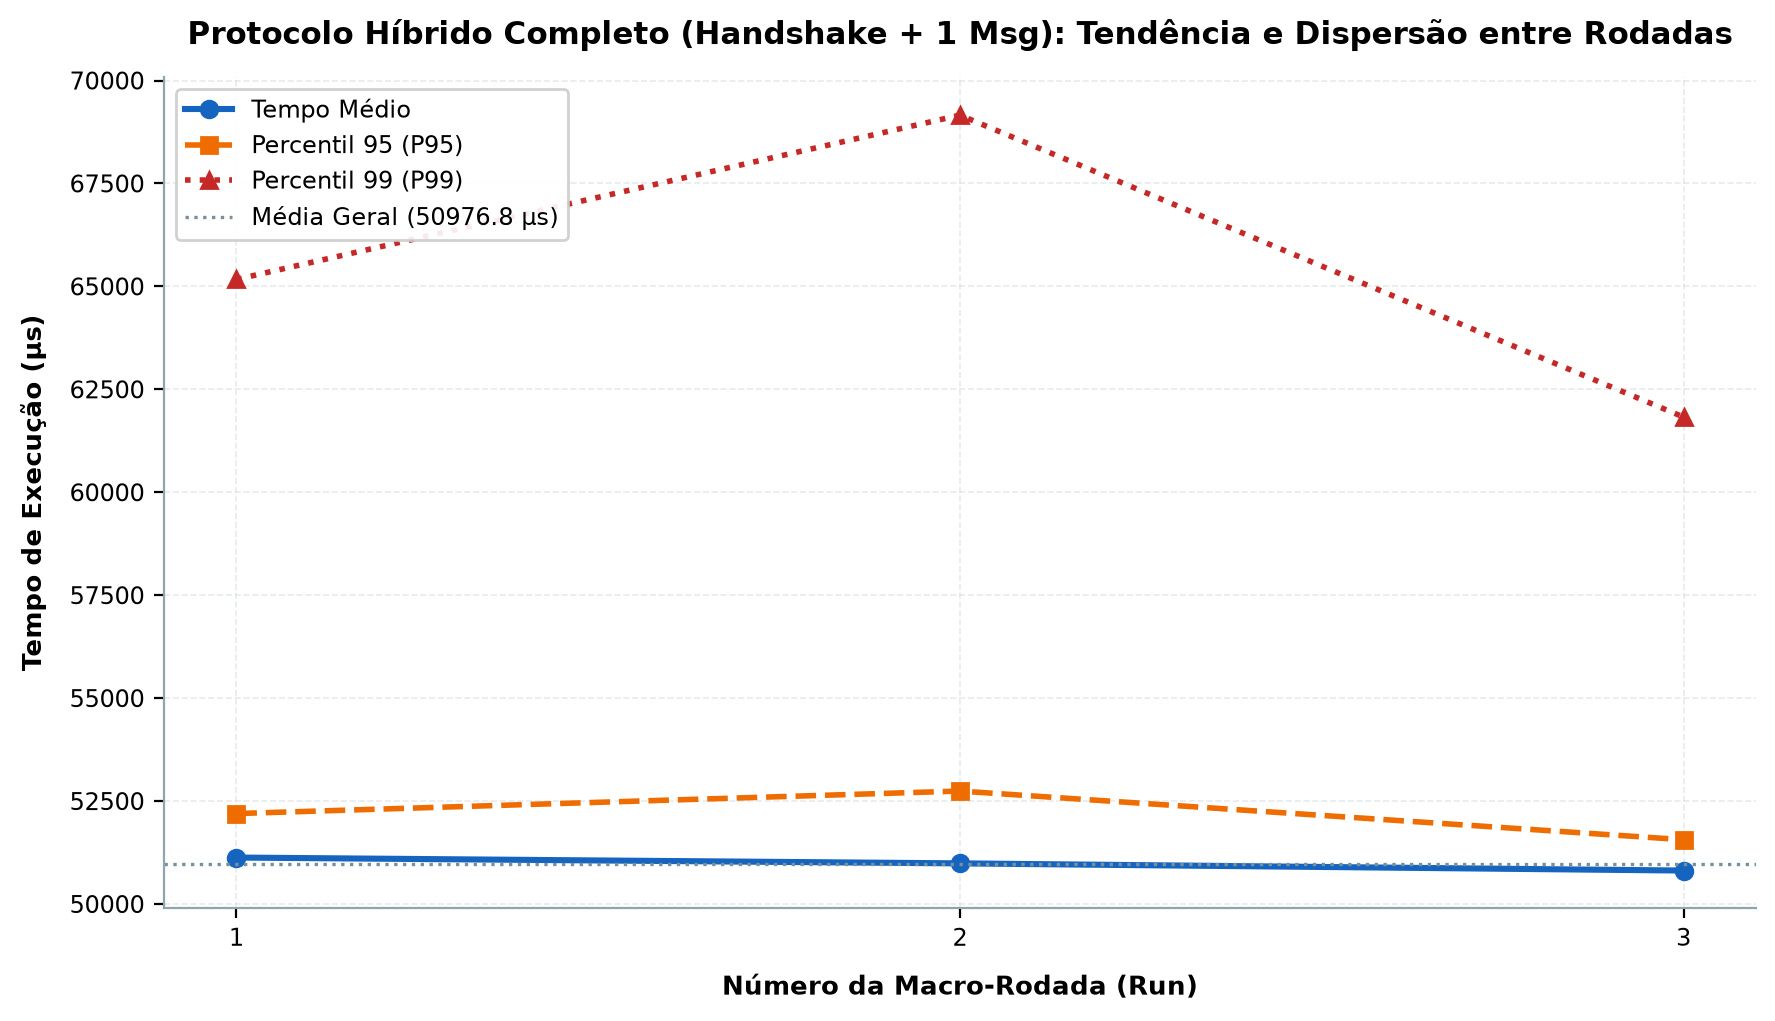
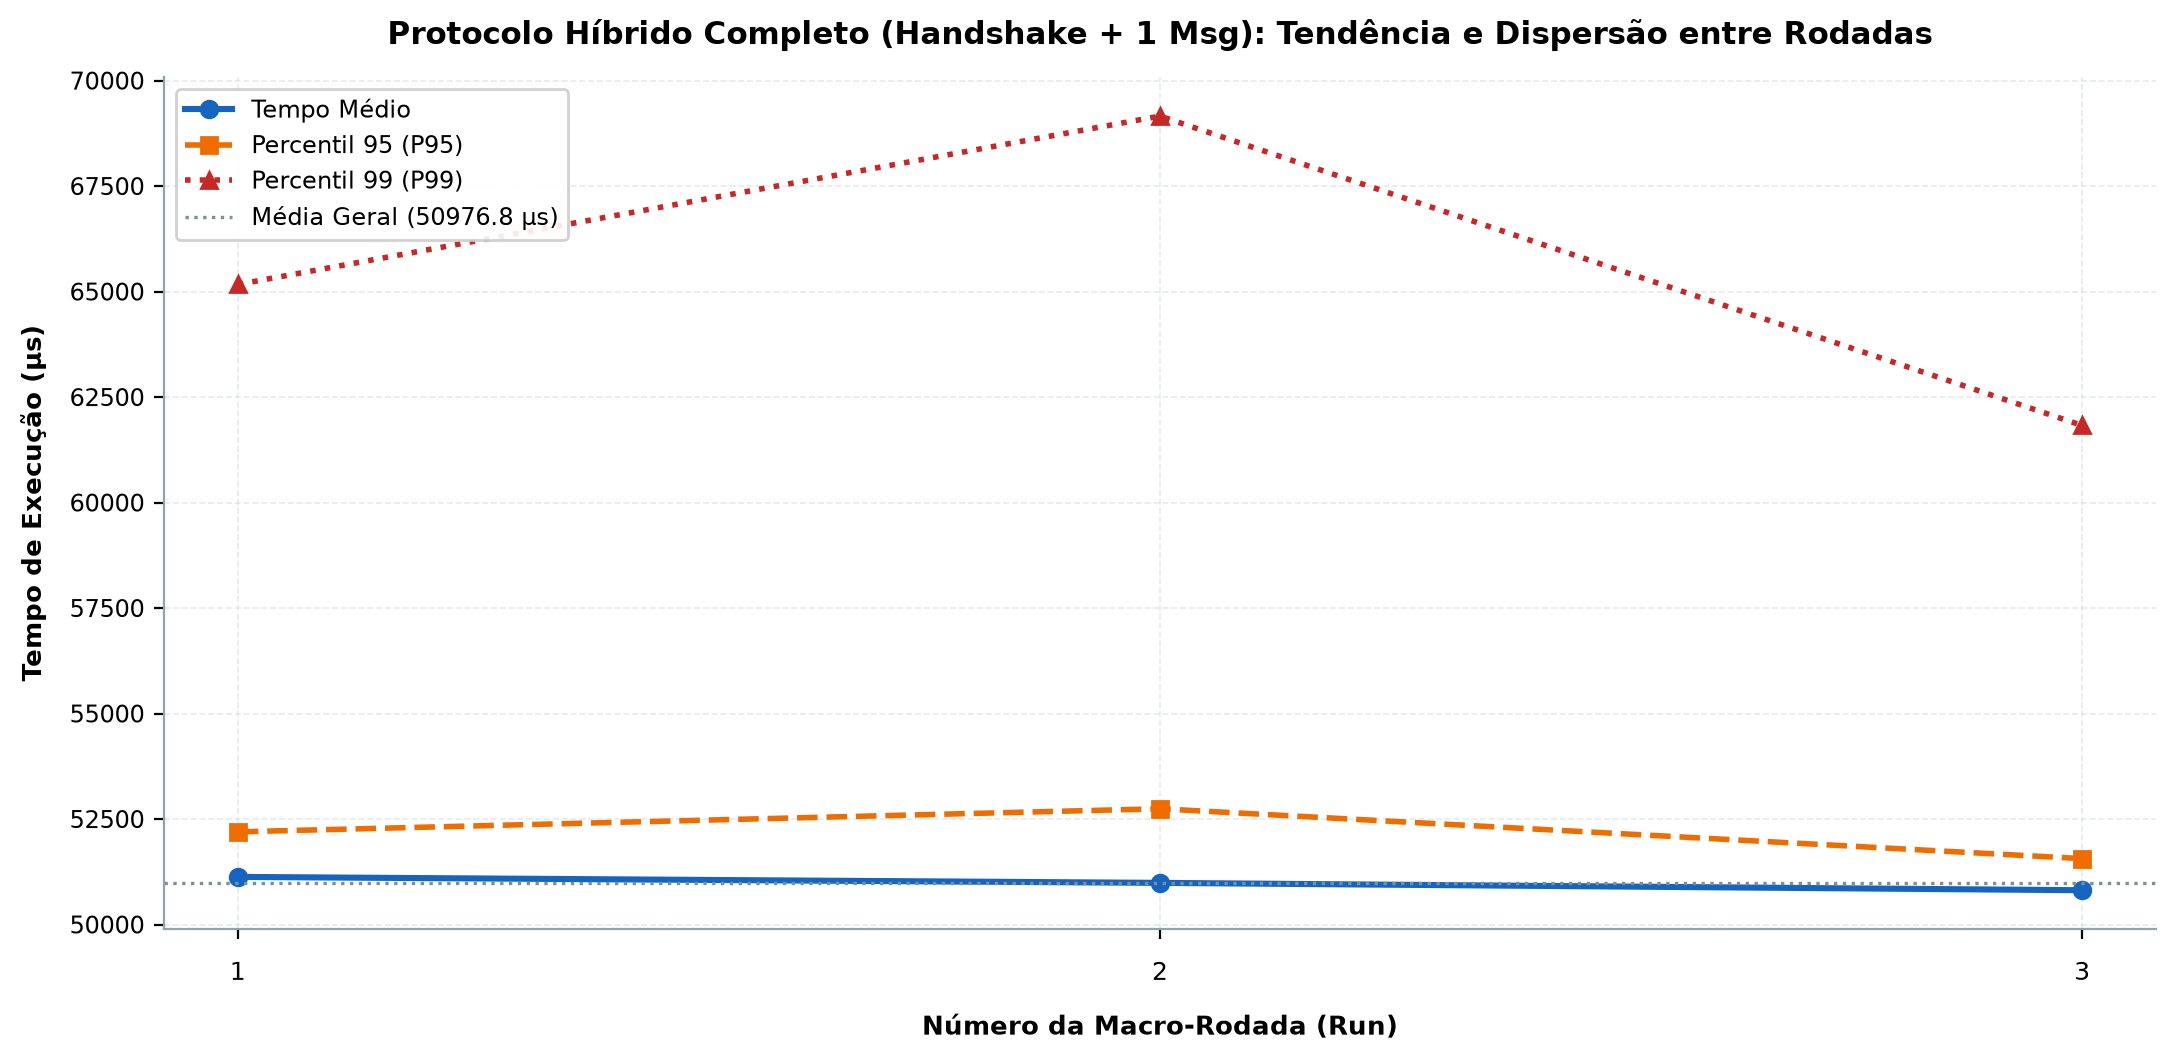
fix(plots): ajustar layout dos eixos e posicionamento de rotulos para evitar sobreposicao

diff --git a/benchmarks/plot_fullsystem_results.py b/benchmarks/plot_fullsystem_results.py
@@ -350,13 +350,39 @@ def run_plot_scalability(df: pd.DataFrame, rr: str, out_dir: Path):
         return
     sub["sec_bits"] = sub["label"].str.extract(SEC_BITS_RE)[0].astype(int)
     sub = sub.sort_values("sec_bits")
-    fig, ax = plt.subplots(figsize=(8.5, 5))
-    ax.plot(sub["sec_bits"], sub["mean_us"], "o-", linewidth=2.2, color=COLOR_PRIMARY, markersize=7, label="Tempo Médio da Escada (k·P)")
+    fig, ax = plt.subplots(figsize=(9, 5.2))
+    ax.plot(sub["sec_bits"], sub["mean_us"], "o-", linewidth=2.2, color=COLOR_PRIMARY, markersize=7, zorder=4, label="Tempo Médio da Escada (k·P)")
     ax.fill_between(sub["sec_bits"], sub["mean_us"], alpha=0.12, color=COLOR_PRIMARY)
+
+    cfg_scal = {
+        80:  {"xytext": (10, -14),  "ha": "left",  "va": "top"},
+        112: {"xytext": (-14, 12), "ha": "right", "va": "bottom"},
+        128: {"xytext": (-14, 12), "ha": "right", "va": "bottom"},
+        192: {"xytext": (-14, 12), "ha": "right", "va": "bottom"},
+        224: {"xytext": (-14, 12), "ha": "right", "va": "bottom"},
+        256: {"xytext": (-14, 10), "ha": "right", "va": "bottom"},
+    }
+
     for _, row in sub.iterrows():
-        ax.annotate(f"{row['mean_us']:.1f} µs", (row["sec_bits"], row["mean_us"]),
-                    textcoords="offset points", xytext=(0, 7), ha="center", fontsize=8, fontweight="semibold", color="#0D47A1")
+        b = int(row["sec_bits"])
+        cfg = cfg_scal.get(b, {"xytext": (-14, 12), "ha": "right", "va": "bottom"})
+        ax.annotate(
+            f"{row['mean_us']:.1f} µs",
+            xy=(row["sec_bits"], row["mean_us"]),
+            xytext=cfg["xytext"],
+            textcoords="offset points",
+            ha=cfg["ha"],
+            va=cfg["va"],
+            fontsize=8.5,
+            fontweight="bold",
+            color="#0D47A1",
+            bbox=dict(boxstyle="round,pad=0.25", facecolor="white", edgecolor="#90CAF9", alpha=0.92, linewidth=0.7),
+            arrowprops=dict(arrowstyle="->", color=COLOR_PRIMARY, lw=0.9, shrinkA=2, shrinkB=4)
+        )
+
     ax.set_xticks(sub["sec_bits"])
+    ax.set_ylim(0, sub["mean_us"].max() * 1.15)
+    ax.margins(x=0.06)
     ax.set_xlabel("Nível de Segurança / Tamanho do Campo Escalar (bits)", labelpad=8)
     ax.set_ylabel("Tempo Médio de Execução (µs)", labelpad=8)
     ax.set_title(f"Escalabilidade X25519: Escada de Montgomery vs. Tamanho do Campo — Rodada {rr}", pad=12)
@@ -659,16 +685,31 @@ def comp_plot_protocol_trend(per_run: dict, out_dir: Path, idx: int):
         return
     rows.sort(key=lambda t: t[0])
     runs, means, p95s, p99s = zip(*rows)
-    fig, ax = plt.subplots(figsize=(9, 5.2))
+    fig, ax = plt.subplots(figsize=(11, 5.4))
     ax.plot(runs, means, "o-", label="Tempo Médio", linewidth=2.2, color=COLOR_PRIMARY, markersize=6)
     ax.plot(runs, p95s, "s--", label="Percentil 95 (P95)", linewidth=2.0, color=COLOR_ACCENT, markersize=5.5)
     ax.plot(runs, p99s, "^:", label="Percentil 99 (P99)", linewidth=2.0, color=COLOR_DANGER, markersize=6)
     overall_mean = sum(means) / len(means)
     ax.axhline(overall_mean, color="#78909C", linestyle=":", linewidth=1.2, label=f"Média Geral ({overall_mean:.1f} µs)")
-    ax.set_xlabel("Número da Macro-Rodada (Run)", labelpad=8)
+    ax.set_xlabel("Número da Macro-Rodada (Run)", labelpad=10)
     ax.set_ylabel("Tempo de Execução (µs)", labelpad=8)
     ax.set_title("Protocolo Híbrido Completo (Handshake + 1 Msg): Tendência e Dispersão entre Rodadas", pad=12)
-    ax.set_xticks(runs)
+
+    # Espaçamento inteligente no eixo X para evitar proximidade/aglomeração de números
+    n_runs = len(runs)
+    if n_runs <= 12:
+        selected_ticks = list(runs)
+    elif n_runs <= 25:
+        selected_ticks = [r for r in runs if r % 2 == 0 or r == runs[0] or r == runs[-1]]
+    elif n_runs <= 45:
+        selected_ticks = [r for r in runs if r % 5 == 0 or r == runs[0] or r == runs[-1]]
+    else:
+        step = 5 if n_runs <= 60 else 10
+        selected_ticks = [r for r in runs if r % step == 0 or r == runs[0] or r == runs[-1]]
+
+    ax.set_xticks(sorted(set(selected_ticks)))
+    ax.tick_params(axis="x", pad=8, labelsize=9)
+    ax.margins(x=0.04)
     beautify_ax(ax, "both")
     ax.legend(loc="upper left", frameon=True, framealpha=0.9)
     savefig(fig, out_dir, f"comp_{idx:02d}_protocolo_hibrido_trend.png")
@@ -682,14 +723,40 @@ def comp_plot_scalability(per_run: dict, out_dir: Path, idx: int):
         return
     sub["sec_bits"] = sub["label"].str.extract(SEC_BITS_RE)[0].astype(int)
     agg = sub.groupby("sec_bits")["mean_us"].agg(["mean", "std"]).reset_index().sort_values("sec_bits")
-    fig, ax = plt.subplots(figsize=(8.5, 5.2))
+    fig, ax = plt.subplots(figsize=(9.2, 5.4))
     ax.errorbar(agg["sec_bits"], agg["mean"], yerr=agg["std"].fillna(0), marker="o",
-                linewidth=2.2, capsize=5, capthick=1.2, color=COLOR_PRIMARY, markersize=6,
-                label=f"Média agregada (N={len(per_run)} rodadas) ± 1σ")
+                linewidth=2.2, capsize=5, capthick=1.2, color=COLOR_PRIMARY, markersize=6.5,
+                zorder=4, label=f"Média agregada (N={len(per_run)} rodadas) ± 1σ")
+
+    cfg_scal = {
+        80:  {"xytext": (12, -14),  "ha": "left",  "va": "top"},
+        112: {"xytext": (-14, 12), "ha": "right", "va": "bottom"},
+        128: {"xytext": (-14, 12), "ha": "right", "va": "bottom"},
+        192: {"xytext": (-14, 12), "ha": "right", "va": "bottom"},
+        224: {"xytext": (-14, 12), "ha": "right", "va": "bottom"},
+        256: {"xytext": (-14, 10), "ha": "right", "va": "bottom"},
+    }
+
     for _, row in agg.iterrows():
-        ax.annotate(f"{row['mean']:.1f} µs", (row["sec_bits"], row["mean"]),
-                    textcoords="offset points", xytext=(0, 8), ha="center", fontsize=8.5, fontweight="semibold", color="#0D47A1")
+        b = int(row["sec_bits"])
+        cfg = cfg_scal.get(b, {"xytext": (-14, 12), "ha": "right", "va": "bottom"})
+        ax.annotate(
+            f"{row['mean']:.1f} µs",
+            xy=(row["sec_bits"], row["mean"]),
+            xytext=cfg["xytext"],
+            textcoords="offset points",
+            ha=cfg["ha"],
+            va=cfg["va"],
+            fontsize=8.5,
+            fontweight="bold",
+            color="#0D47A1",
+            bbox=dict(boxstyle="round,pad=0.28", facecolor="white", edgecolor="#90CAF9", alpha=0.92, linewidth=0.7),
+            arrowprops=dict(arrowstyle="->", color=COLOR_PRIMARY, lw=0.9, shrinkA=2, shrinkB=4)
+        )
+
     ax.set_xticks(agg["sec_bits"])
+    ax.set_ylim(0, agg["mean"].max() * 1.16)
+    ax.margins(x=0.06)
     ax.set_xlabel("Nível de Segurança / Tamanho do Campo Simulado (bits)", labelpad=8)
     ax.set_ylabel(f"Tempo Médio Agregado entre {len(per_run)} Rodada(s) (µs)", labelpad=8)
     ax.set_title("Comparativo entre Rodadas: Escalabilidade X25519 vs. Tamanho do Campo", pad=12)

diff --git a/benchmarks/postprocess_dissertacao.py b/benchmarks/postprocess_dissertacao.py
@@ -518,16 +518,38 @@ def plot_ponto_otimo_rekeying(df_benchmark: pd.DataFrame, out_dir: Path):
     ax2.set_ylabel("Ocupação Contínua de CPU do Dispositivo (%)", color=C_AMBER, fontsize=10, fontweight="bold", labelpad=8)
     ax2.tick_params(axis="y", labelcolor=C_AMBER)
 
+    ax1.set_ylim(min(amort_latency) * 0.7, max(amort_latency) * 3.0)
+    ax2.set_ylim(-0.2, max(cpu_percent) * 1.35)
+
     ax1.set_title("Otimização do Ponto de Renovação de Chaves (Rekeying Duty Cycle)\n(Balanceamento entre Perfect Forward Secrecy e Disponibilidade da CPU)",
                   fontsize=11.5, fontweight="bold", pad=12)
 
-    # Destaque para N = 1, 10, 50, 100
+    # Destaque para N = 1, 10, 50, 100 com posicionamento estratégico fora da curva
+    cfg_points = {
+        1:   {"xytext": (25, 0),   "ha": "left", "va": "center"},
+        10:  {"xytext": (28, 25),  "ha": "left", "va": "bottom"},
+        50:  {"xytext": (22, 26),  "ha": "left", "va": "bottom"},
+        100: {"xytext": (18, 28),  "ha": "left", "va": "bottom"},
+    }
+
     for target_n in [1, 10, 50, 100]:
         t_am = (t_hs / target_n) + t_msg
         cpu_p = (t_am / t_amostragem_us) * 100.0
-        ax1.plot(target_n, t_am, marker="o", markersize=6, color=C_BLUE)
-        ax1.annotate(f"N={target_n}\n{t_am:.0f} µs\n({cpu_p:.2f}% CPU)", xy=(target_n, t_am), xytext=(0, 10), textcoords="offset points",
-                    ha="center", fontsize=8, fontweight="bold", color=C_NAVY)
+        cfg = cfg_points[target_n]
+        ax1.plot(target_n, t_am, marker="o", markersize=7, color=C_BLUE, zorder=5)
+        ax1.annotate(
+            f"N={target_n}\n{t_am:.0f} µs\n({cpu_p:.2f}% CPU)",
+            xy=(target_n, t_am),
+            xytext=cfg["xytext"],
+            textcoords="offset points",
+            ha=cfg["ha"],
+            va=cfg["va"],
+            fontsize=8.5,
+            fontweight="bold",
+            color=C_NAVY,
+            bbox=dict(boxstyle="round,pad=0.35", facecolor="white", edgecolor="#90CAF9", alpha=0.92, linewidth=0.8),
+            arrowprops=dict(arrowstyle="->", color=C_BLUE, lw=1.0, shrinkA=3, shrinkB=4)
+        )
 
     beautify_ax(ax1, "y")
     ax2.spines["top"].set_visible(False)
